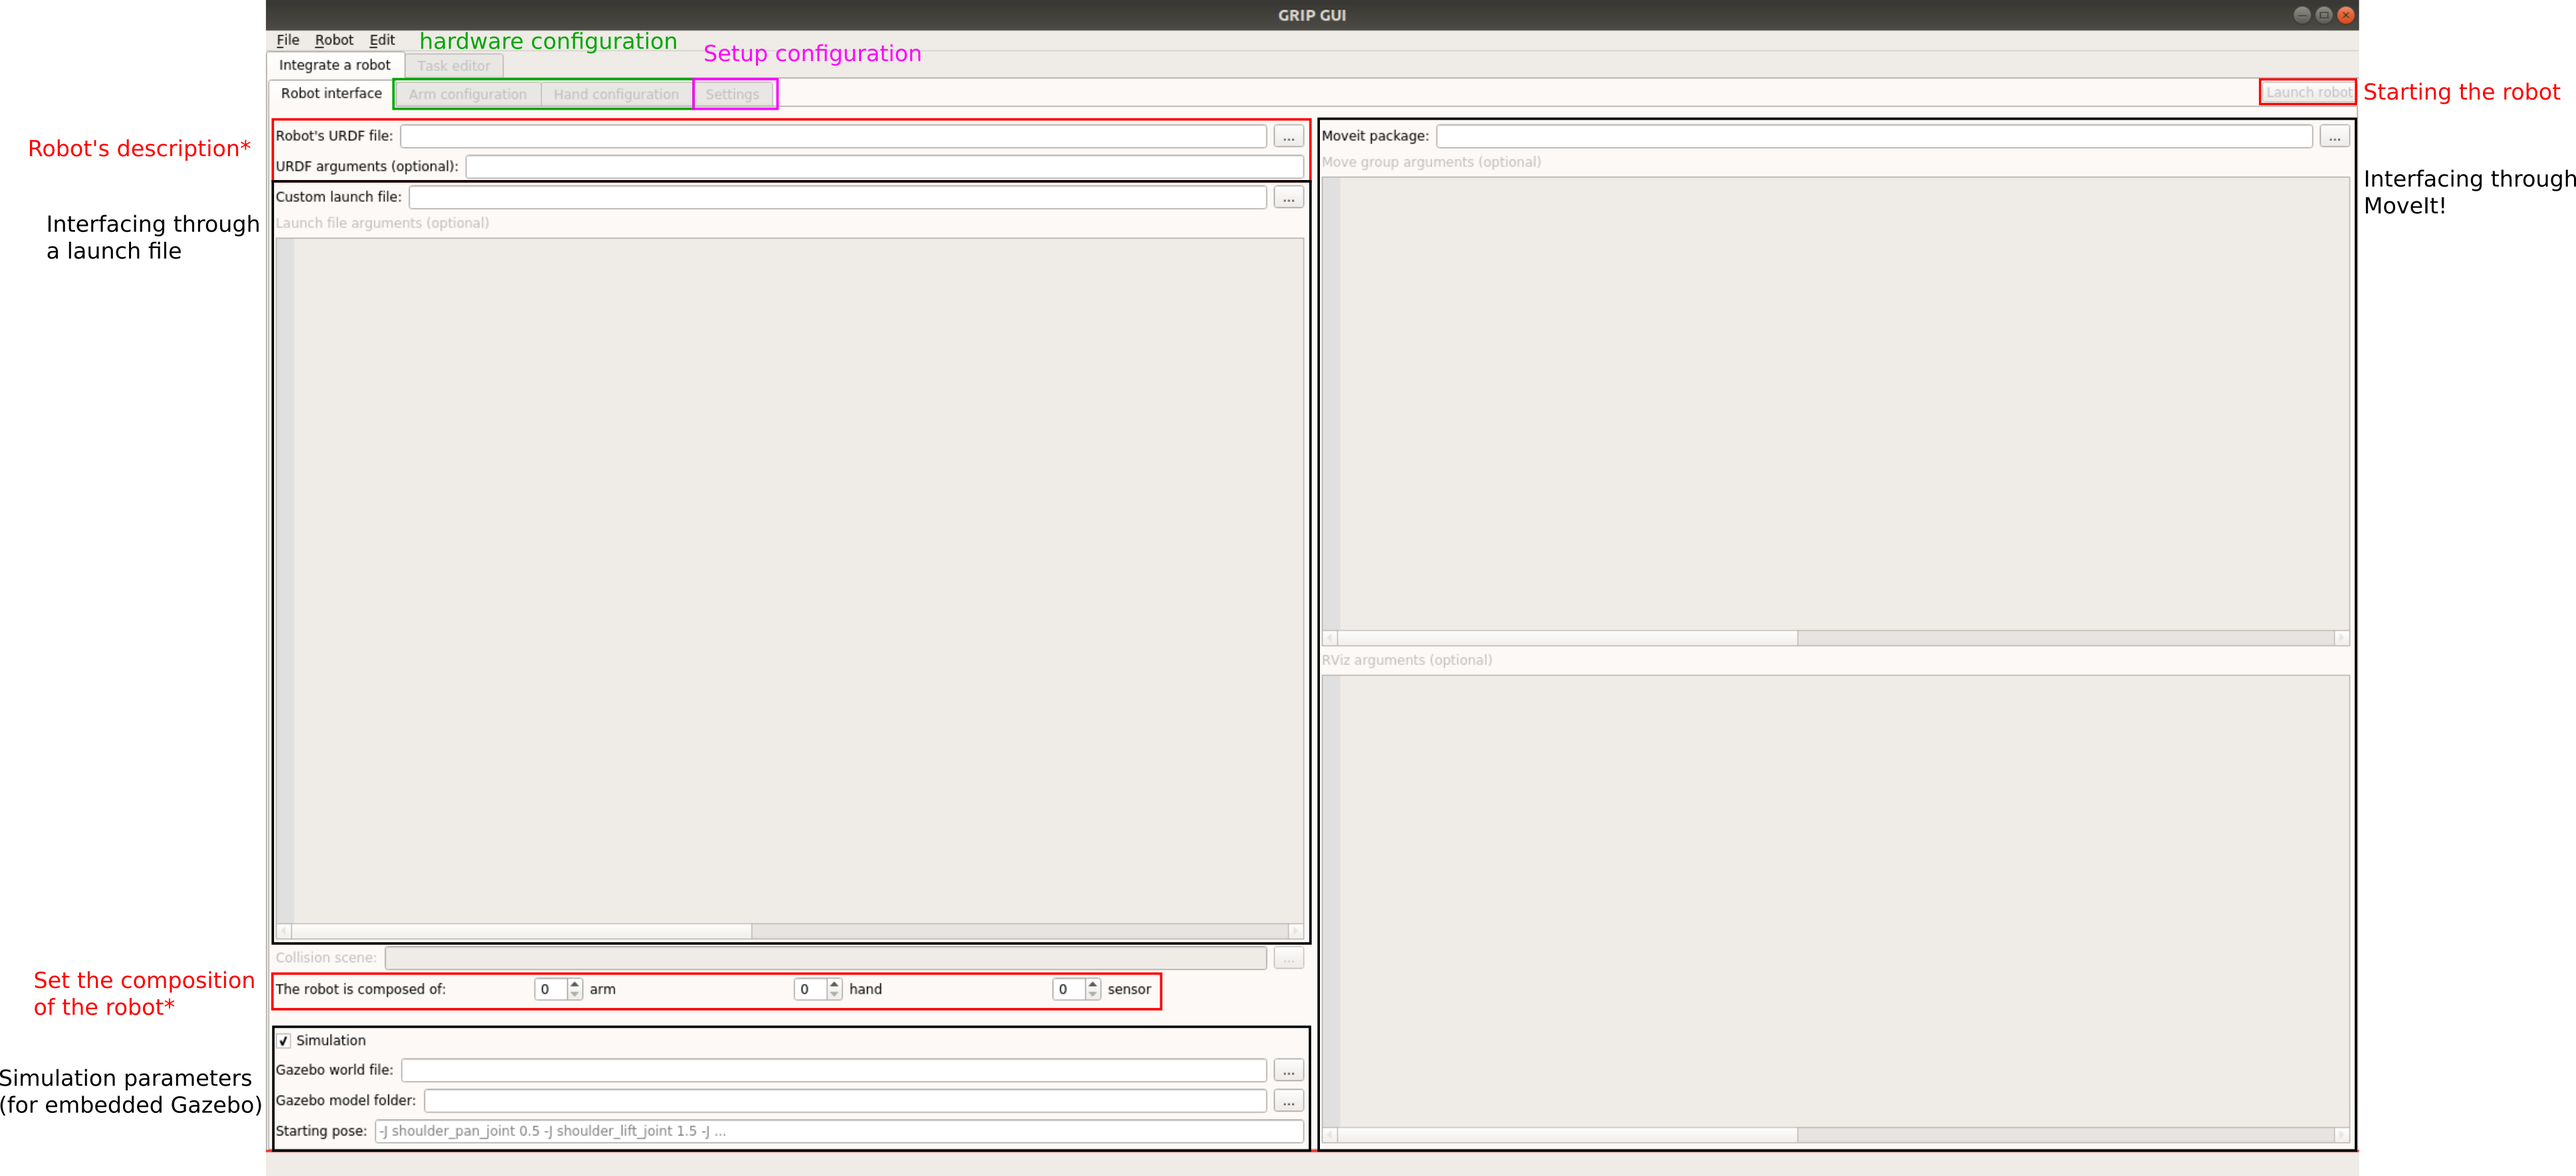
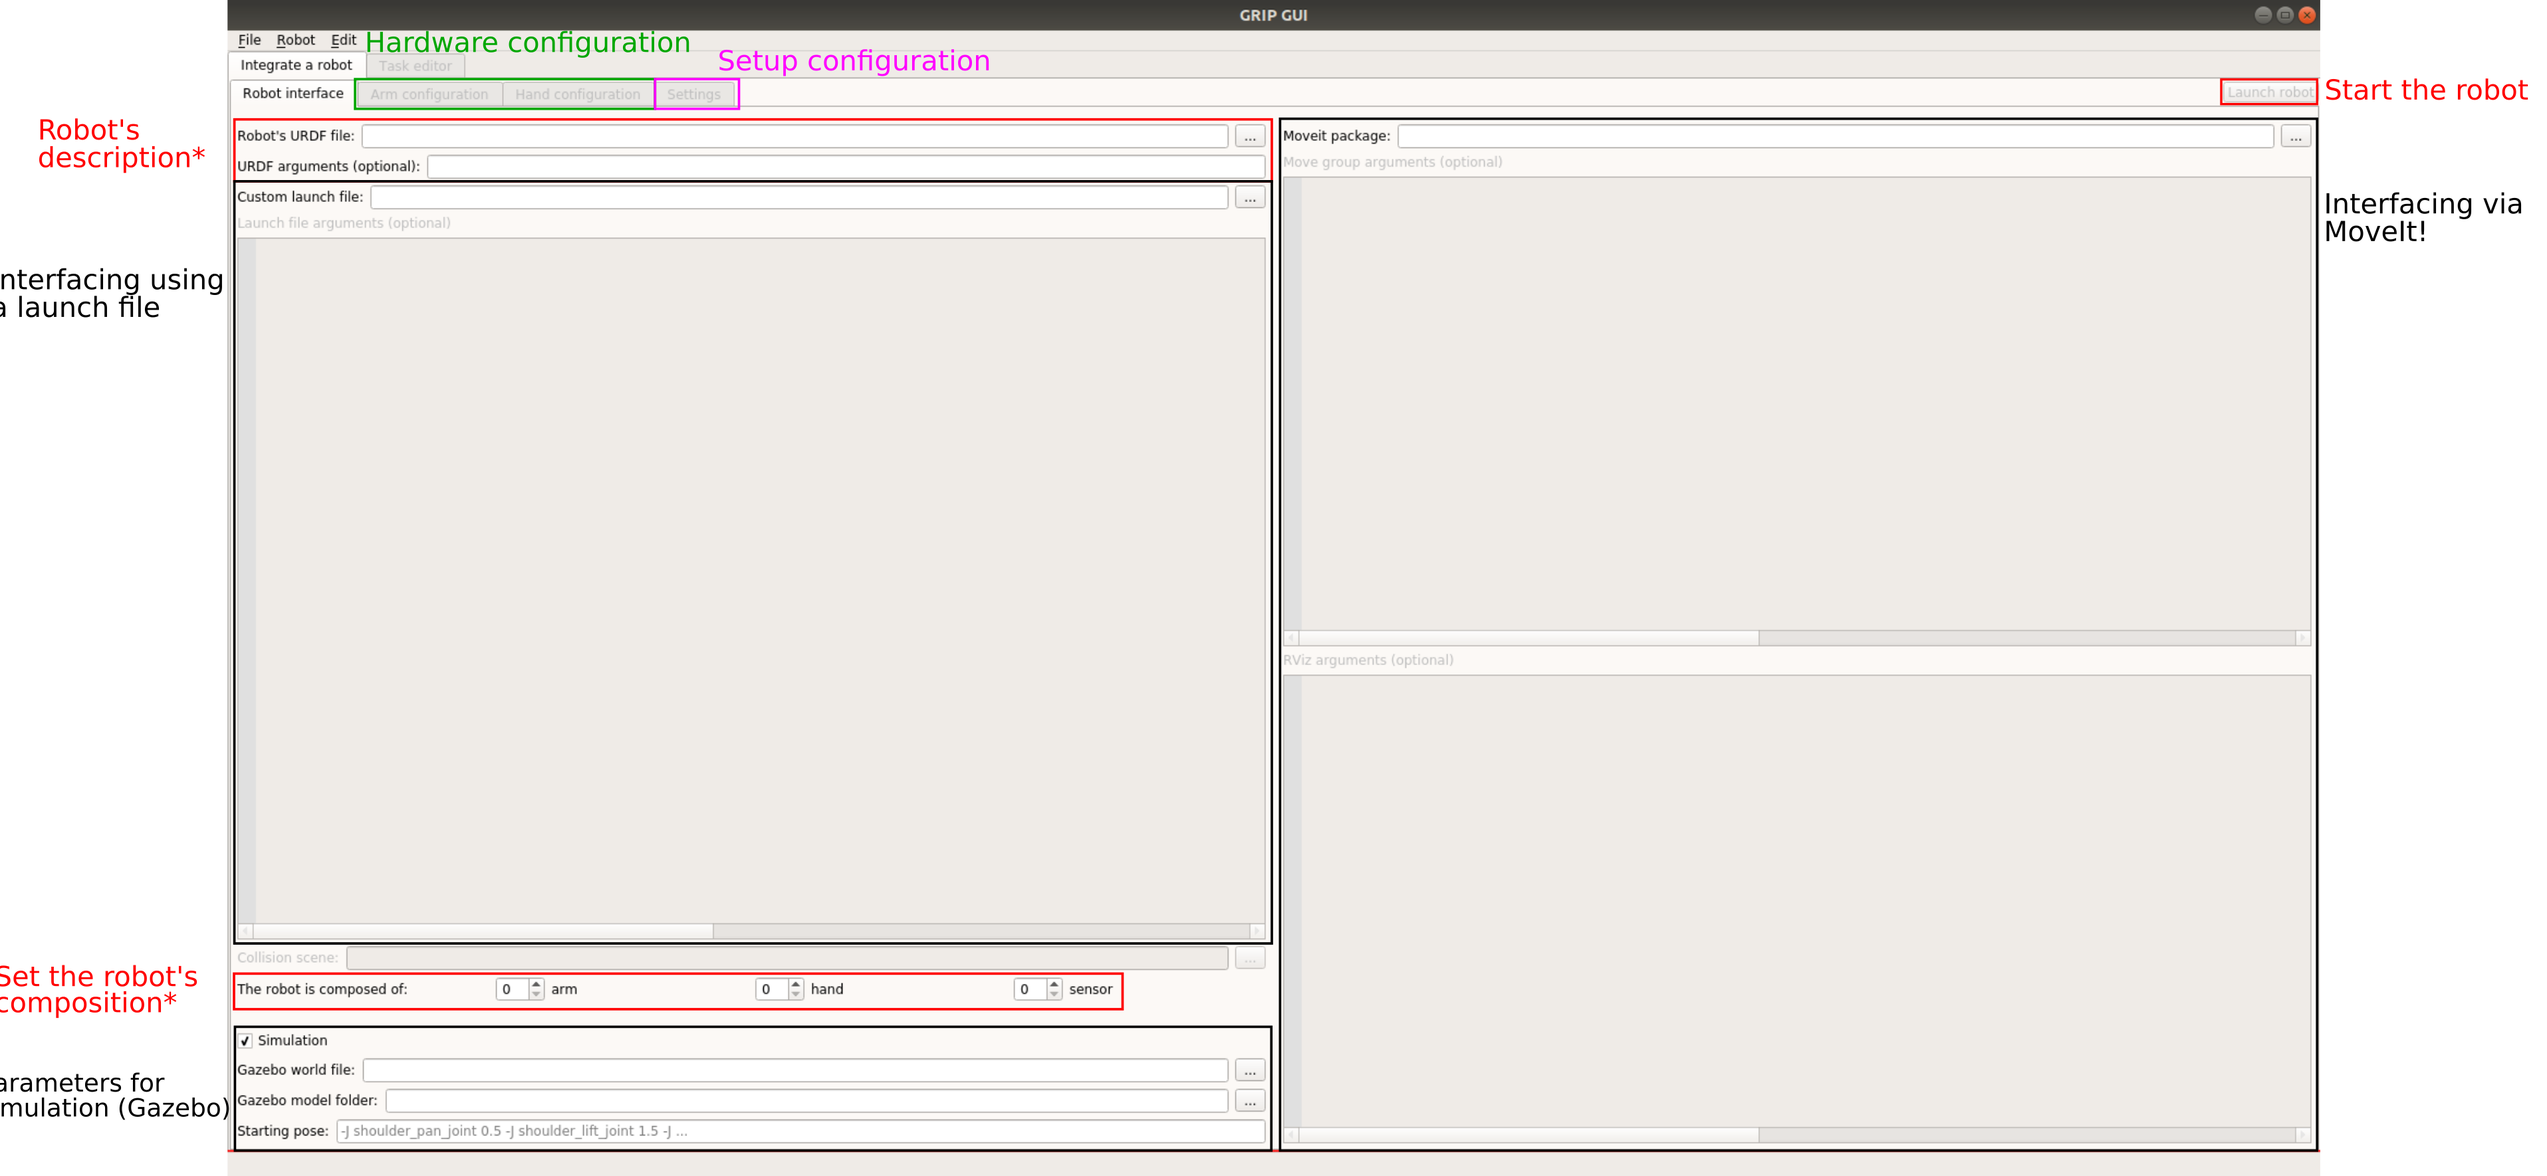
add overview of integration stage

diff --git a/docs/user_guide/getting_started.rst b/docs/user_guide/getting_started.rst
@@ -47,7 +47,7 @@ What is GRIP
 | GRIP is a ROS-based robot-agnostic software that allows for visual programming and fast prototyping of robotic grasping and manipulation tasks. The main purpose of this tool is to facilitate the integration of software and hardware components into complex robotic systems.
 | Although the Robot Operating System (ROS) is not the only middleware available to operate robots, it remains one of the most used, especially in academia. For this reason, instead of re-implementing numerous features already provided by this operating system, we decided to make the most of it.
 | If you've never used ROS and are reluctant to thoroughly learn this stack, GRIP is made for you. In fact, we tried to reduce as much as possible the ROS knowledge required to use our framework, to make sure GRIP remains accessible and easy to use. In addition, we provide a documentation with several examples for all the steps from robot integration to task design and execution.
-| In order to simplify all the steps necessary to run a robot task, we have implemented an intuitive and reactive Graphical User Interface (GUI) for both the integration stage and task design. If you want to have a look at the code, all related files are located in the `grip_api <https://github.com/shadow-robot/sr_grip/tree/kinetic-devel/grip_api>`_ package. The code corresponding to all the other components of this fraemwork, can be found in the `grip_core <https://github.com/shadow-robot/sr_grip/tree/kinetic-devel/grip_core>`_ package.
+| In order to simplify all the steps necessary to run a robot task, we have implemented an intuitive and reactive Graphical User Interface (GUI) for both the integration stage and task design. If you want to have a look at the code, all related files are located in the `grip_api <https://github.com/shadow-robot/sr_grip/tree/kinetic-devel/grip_api>`_ package. The code corresponding to all the other components of this fraemwork, can be found in the `grip_core <https://github.com/shadow-robot/sr_grip/tree/kinetic-devel/grip_core>`_ package. Let's now have a quick overview of the different steps required to run a task with GRIP.
 | **Disclaimer: GRIP's focus is not to be highly performant, but rather to provide users a tool to easily reproduce their own setups and integrate components to screen them, before potentially integrating them to their existing optimised pipeline!**
 
 Integration stage
@@ -62,5 +62,22 @@ Integration stage
 You should have the following GUI appearing (without the annotations obviously).
 
 .. image:: ../img/annotated_empty_config.png
+
+| Please note that the launch button is here **disabled** and will become **enabled** only when a robot has been successfully integrated! This should help you save quite some time trying to start your robot while it's going to fail because something is missing...
+| The black areas correspond to optional robot's interfacing modalities, that are going to be detailed in the tutorials.
+| The two areas on the left (i.e. **Robot's description**, **Robot's composition**) are required regardless of the modalities you want to use to interface your robot. Depending on the composition of your robot, the appropriate hardware configuration tabs (area in green) will become available. Here is what such tabs look like
+
+.. image:: ../img/empty_hardware_configuration.png
+
+| In order to configure a robot arm (or hand/gripper), you need to specify several components, e.g. which controller, kinematics library and planner to use to operate it. In the above image, you can see that two areas are grayed out (i.e. disabled), and that's fine, it means that the current configuration does not allow the user to set these fields. In other words, we have implemented a reactive mechanism that enables/disables the different fields according to the current inputs to help you configure the robot. For instance, the :code:`MoveIt! planners` editor will be available if and only if a MoveIt! configuration package has been previously provided.
+| For each editor, you can either open existing **YAML** configuration files or create your own via the push buttons you can see. Once done, if you want to integrate a controller you have implemented yourself, you can just press the ``+`` symbol that appears in the margin. A sequence of dialogues pop up and if you follow them, your component will be successfully integrated to GRIP. More details about this process can be found in the tutorials.
+| Each editor has a live syntax check that will signal you whether some information you provided don't follow the expected format. For instance, as illustrated in the following figure, the editor :code:`Named joint states` of the :code:`Settings` tab shows an error. In fact, the value corresponding to the joint *joint_name_1* should be an integer or float, not a string. Such mechanism, along with autocompletion should help you to efficiently interface and configure your robot.
+
+.. image:: ../img/settings_tab.png
+
+Once you have configured everything you need, you can start designing your task!
+
+Task design and execution
+*************************
 
 If everything is clear so far, you can move to the :ref:`tutorials <tutorials_list>`.
